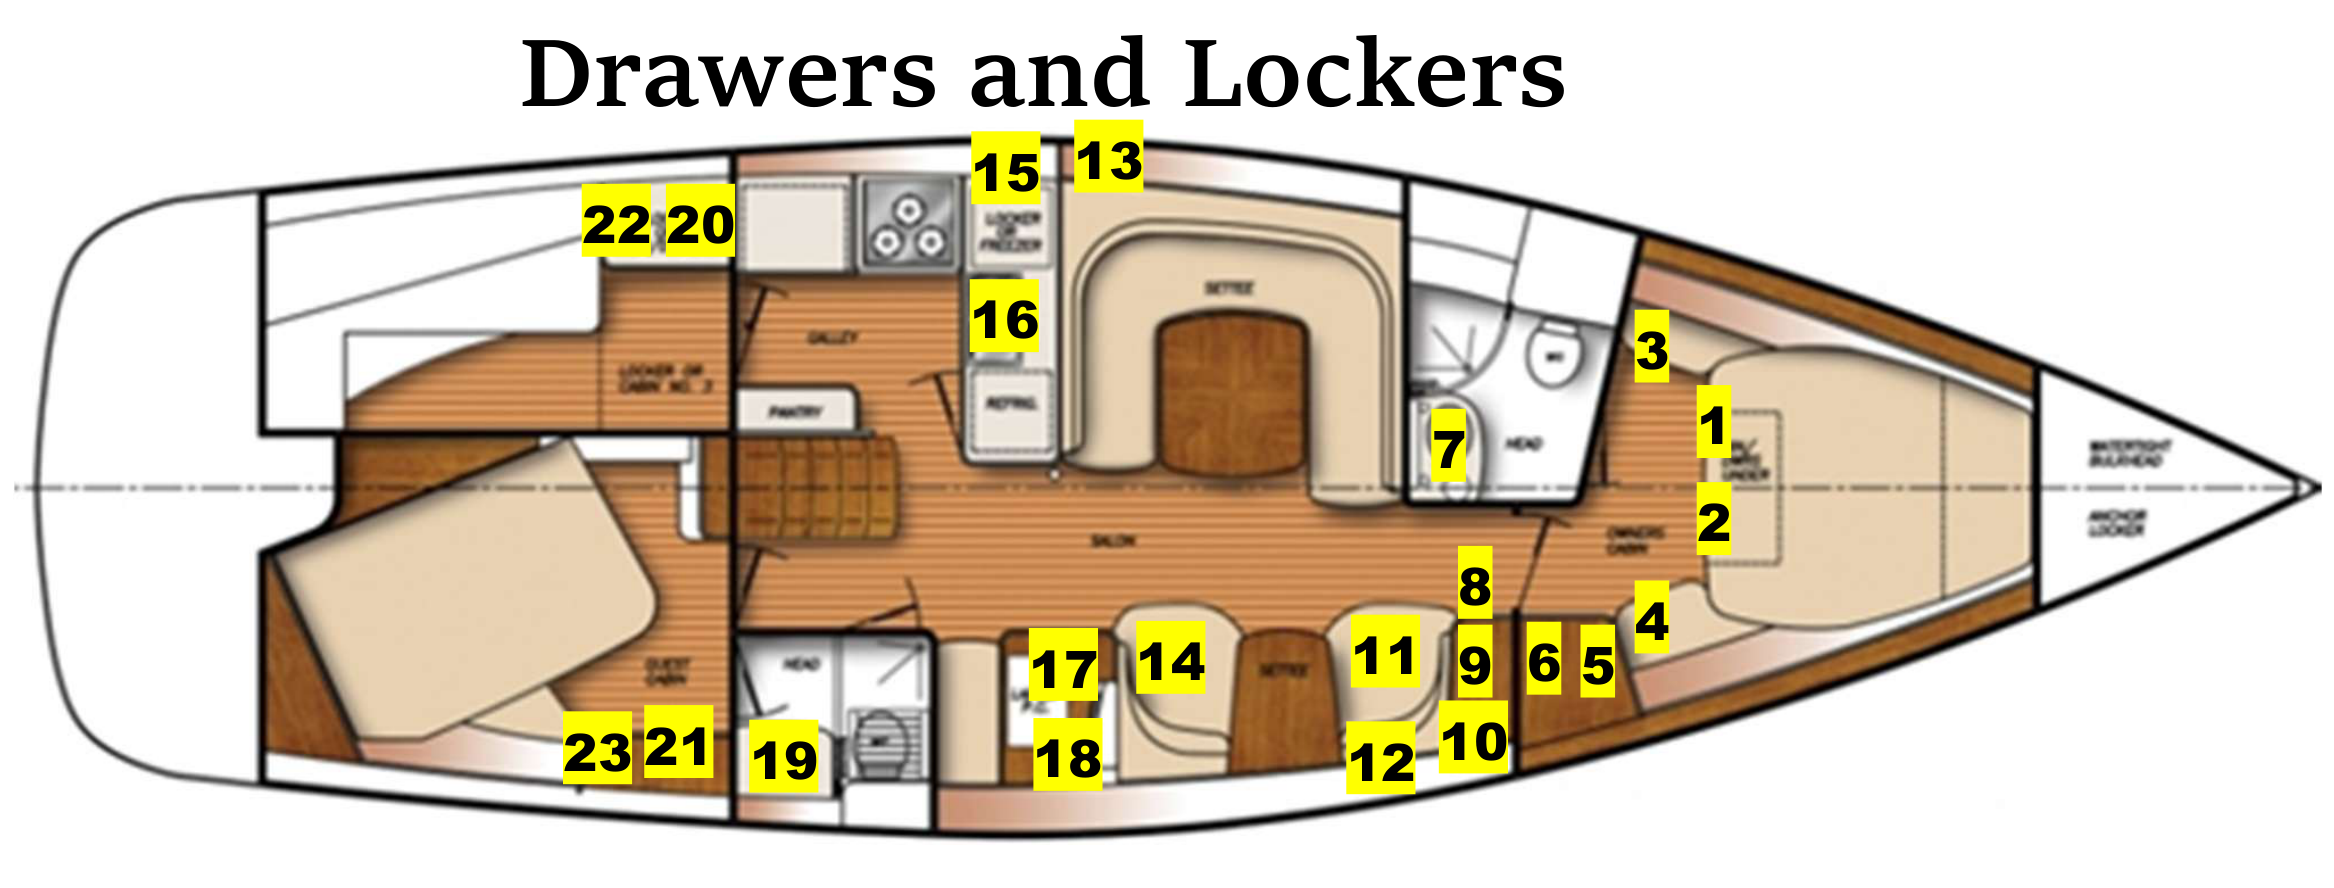
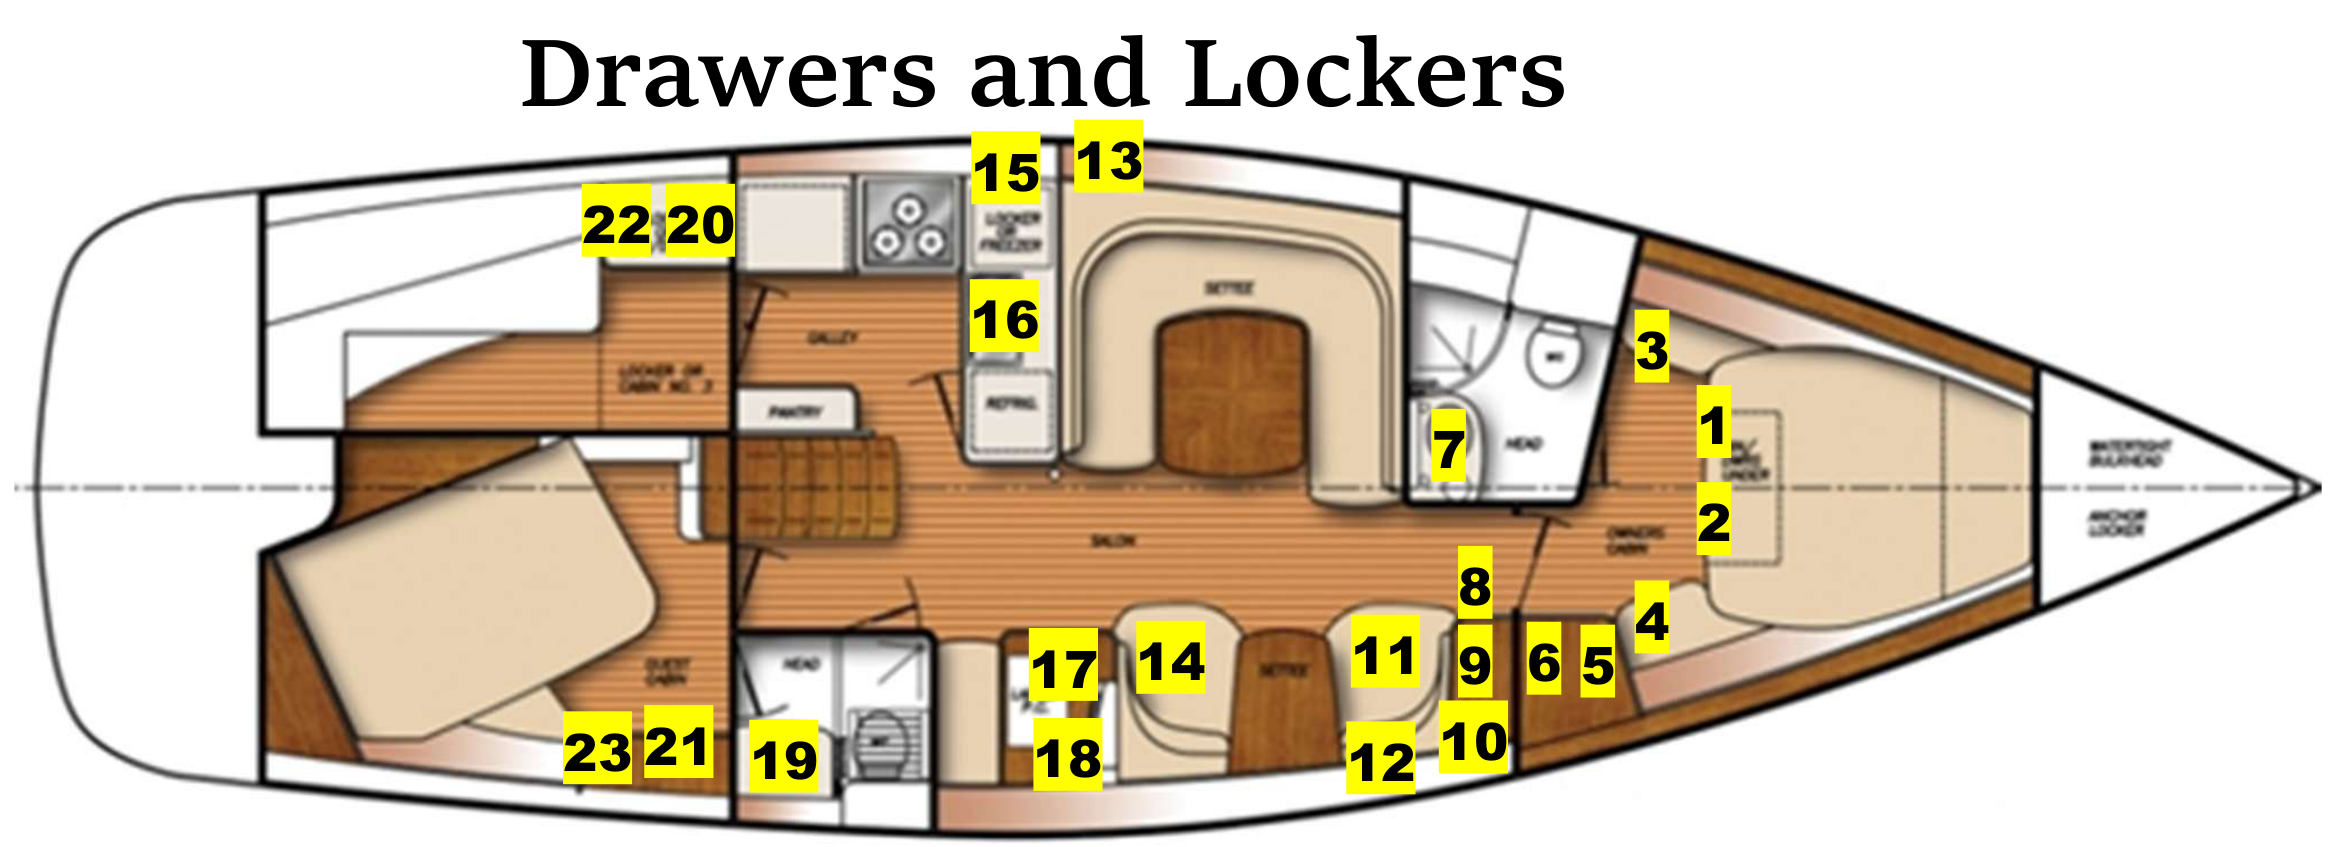
Remove whitespace below both interior diagrams
Crops locker-plan.png bottom to 5px margin (847px tall, was 888px).
Reduces scroll-hint bottom padding and comp-list top padding so the
compartment/locker list appears tight below the drawing.

diff --git a/src/components/LockerDiagram.jsx b/src/components/LockerDiagram.jsx
@@ -28,8 +28,8 @@ const POSITIONS = {
   'lock-23': { px: 23.0, py: 55.0 },
 }
 
-// 888/2334 expressed as a percentage for the padding-bottom aspect-ratio trick
-const ASPECT_PCT = (888 / 2334) * 100  // ≈ 38.05%
+// 847/2334 expressed as a percentage for the padding-bottom aspect-ratio trick
+const ASPECT_PCT = (847 / 2334) * 100  // ≈ 36.29%
 
 function itemCount(inv, id) {
   return (inv[id] || []).reduce((s, i) => s + i.qty, 0)

diff --git a/src/index.css b/src/index.css
@@ -754,7 +754,7 @@ html, body, #root {
   font-size: 0.68rem;
   color: var(--cream-dim);
   opacity: 0.5;
-  padding: 5px 0 2px;
+  padding: 2px 0 0;
   letter-spacing: 0.05em;
 }
 
@@ -1780,7 +1780,7 @@ html, body, #root {
 
 /* ── Compartment numbered list ─────────────────────────── */
 .comp-list {
-  padding: 10px 8px 16px;
+  padding: 4px 8px 16px;
 }
 
 .comp-row {
